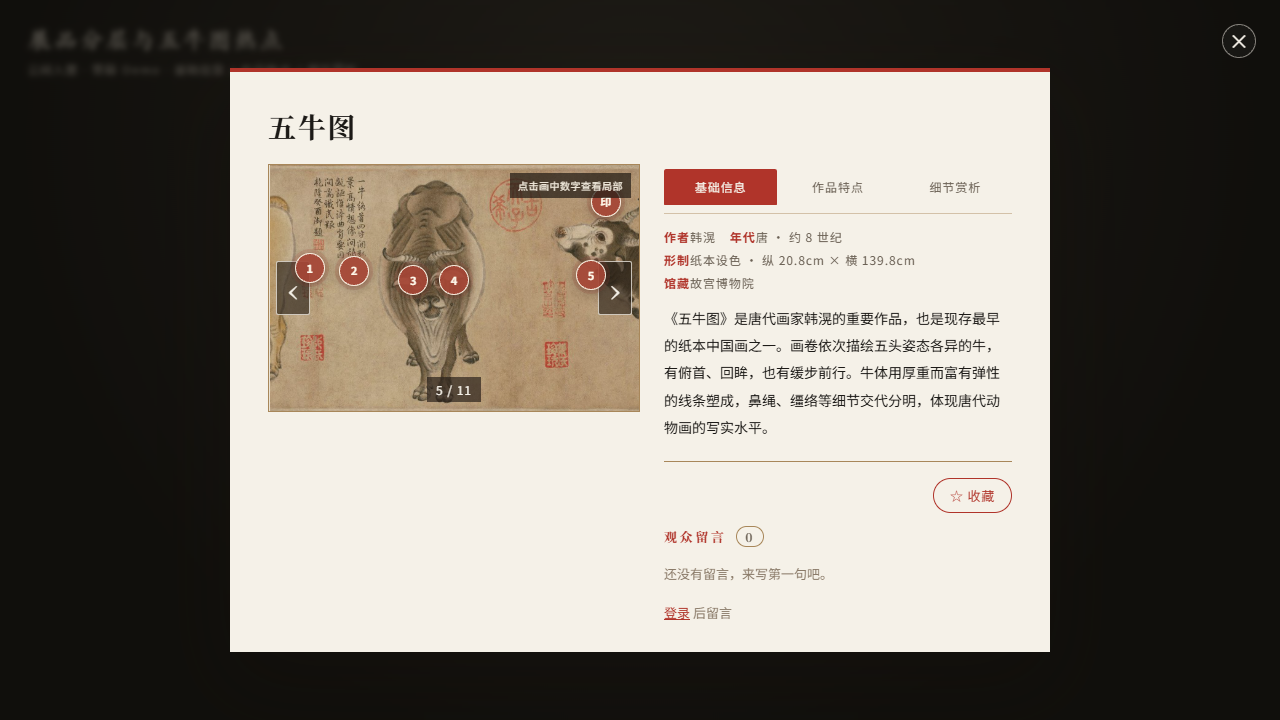
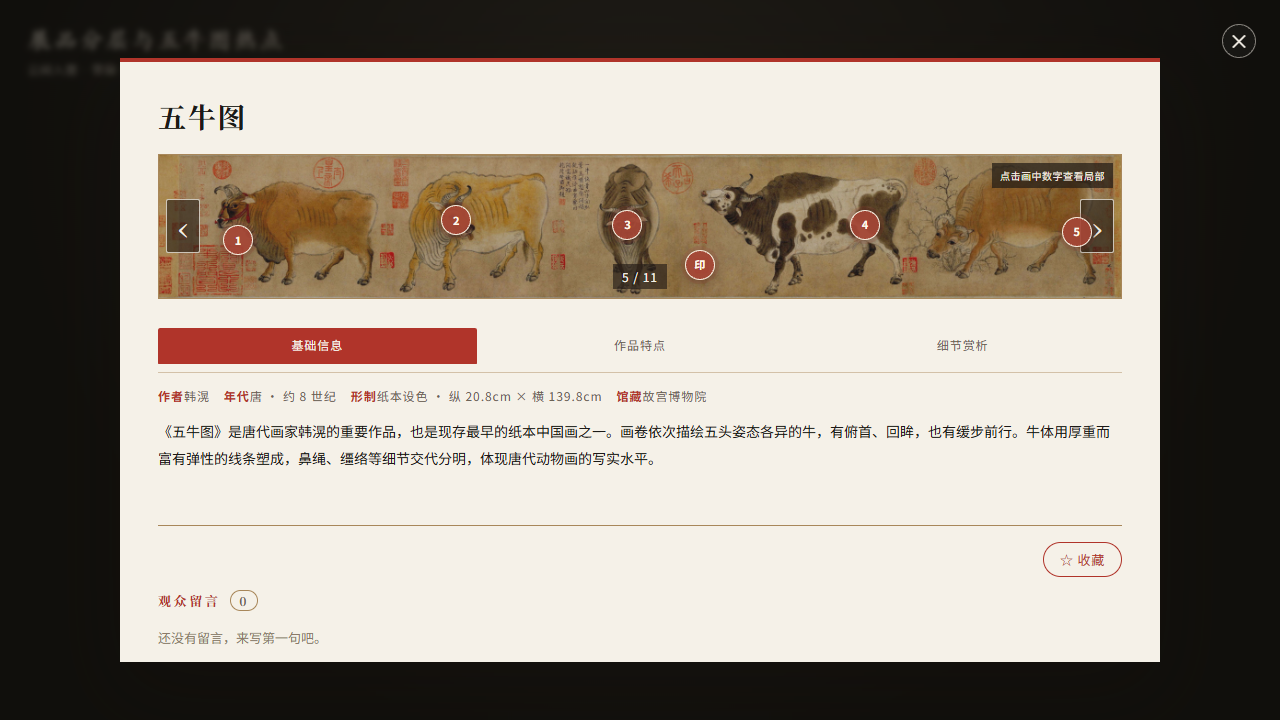
fix(exhibit): 替换完整五牛图并校正热点

diff --git a/js/config.js b/js/config.js
@@ -105,7 +105,7 @@ window.MuseumConfig = {
       ],
     },
     {
-      id: "wuniutu", type: "painting", image: "assets/images/wuniutu.jpg", hall: "hall3",
+      id: "wuniutu", type: "painting", image: "assets/images/wuniutu.jpg", hall: "hall3", layout: "scroll",
       title: "五牛图",
       artist: "韩滉", dynasty: "唐", era: "约 8 世纪",
       medium: "纸本设色 · 纵 20.8cm × 横 139.8cm",
@@ -118,12 +118,12 @@ window.MuseumConfig = {
         "鼻绳、缰络、牛角与口鼻细毛被准确刻画，在极简背景中突出唐代动物画的写实能力。",
       ],
       hotspots: [
-        { id: "ox-left-1", label: "左一 · 昂首凝视", x: 11, y: 42, text: "左起第一头牛正面昂首，牛角向前，牛眼凝视画外，头部套有缰绳；紧绷的身体与警惕神情让画面在起始处形成强烈停顿。" },
-        { id: "ox-left-2", label: "左二 · 缓步前行", x: 23, y: 43, text: "第二头牛侧身缓步，脊背与腹部以长线连成完整弧线，关节处用短促提按表现转折，体现韩滉以简练线条写筋骨的能力。" },
-        { id: "ox-middle", label: "中段 · 转身蓄势", x: 39, y: 47, text: "中段牛身体略微转向，视线与前行方向打破横向排列的单一节奏；牛背起伏与四肢支撑被处理得稳定而有重量。" },
-        { id: "ox-right-2", label: "右二 · 回首顾盼", x: 50, y: 47, text: "这一头牛回首顾盼，颈部转折与身体朝向形成回环，引导视线重新回到画卷中央，也为末段积蓄动势。" },
-        { id: "ox-right-1", label: "右一 · 倚棘蹭痒", x: 87, y: 45, text: "最右一头老牛伸长脖子倚着荆棘蹭痒，弯曲牛角和松弛眼神把舒适神态写得很传神，是五牛图中情绪最鲜活的一头。" },
-        { id: "seal-collection", kind: "seal", label: "收藏印 · 递藏信息", x: 91, y: 15, text: "卷后题跋与收藏印见证宋、元、清以来递藏；乾隆内府收藏、近代流散与二十世纪五十年代购回经历，使作品兼具艺术价值与文物史价值。" },
+        { id: "ox-1", label: "第一牛 · 昂首凝视", x: 8.2, y: 60, text: "卷首第一头牛正面昂首，牛角向前，牛眼凝视画外，头部套有缰绳；紧绷的身体与警惕神情让画面在起始处形成强烈停顿。" },
+        { id: "ox-2", label: "第二牛 · 缓步前行", x: 30.9, y: 46, text: "第二头牛侧身缓步，脊背与腹部以长线连成完整弧线，关节处用短促提按表现转折，体现韩滉以简练线条写筋骨的能力。" },
+        { id: "ox-3", label: "第三牛 · 正面蓄势", x: 48.7, y: 49, text: "中间一头牛身体略微转向，视线与前行方向打破横向排列的单一节奏；牛背起伏与四肢支撑被处理得稳定而有重量。" },
+        { id: "ox-4", label: "第四牛 · 回首顾盼", x: 73.4, y: 49, text: "第四头牛回首顾盼，颈部转折与身体朝向形成回环，引导视线重新回到画卷中央，也为末段积蓄动势。" },
+        { id: "ox-5", label: "第五牛 · 倚棘蹭痒", x: 95.4, y: 54, text: "卷末老牛伸长脖子倚着荆棘蹭痒，弯曲牛角和松弛眼神把舒适神态写得很传神，是五牛图中情绪最鲜活的一头。" },
+        { id: "seal-collection", kind: "seal", label: "收藏印 · 递藏信息", x: 56.2, y: 77, text: "卷中朱红收藏印见证宋、元、清以来递藏；乾隆内府收藏、近代流散与二十世纪五十年代购回经历，使作品兼具艺术价值与文物史价值。" },
       ],
     },
     {

diff --git a/index.html b/index.html
@@ -141,8 +141,8 @@
 
   <!-- 第三方依赖：Three.js r147（UMD，SRI 锁定） -->
   <!-- three.js 本地化：原 jsdelivr CDN 在国内常不可达，断网/答辩会白屏 -->
-  <script src="./js/vendor/three.min.js?v=20261105-runtime2"></script>
-  <script src="./js/vendor/GLTFLoader.js?v=20261105-runtime2"></script>
+  <script src="./js/vendor/three.min.js?v=20261106-wuniutu"></script>
+  <script src="./js/vendor/GLTFLoader.js?v=20261106-wuniutu"></script>
   <!-- 第三方依赖：MediaPipe Tasks Vision 0.10.0（已本地化：js/vendor/mediapipe/，
        WASM 与 hand_landmarker.task 由 gesture.js 从本地路径加载，断网可用） -->
   <!-- 注意：vision_bundle.js 是「UMD 外层 + 末尾 ESM export」的混合产物，
@@ -168,25 +168,25 @@
   </script>
 
   <!-- 项目模块（依赖顺序不可调换） -->
-  <script src="./js/config.js?v=20261105-runtime2"></script>
-  <script src="./js/models.js?v=20261105-runtime2"></script>
-  <script src="./js/exterior.js?v=20261105-runtime2"></script>
-  <script src="./js/gallery.js?v=20261105-runtime2"></script>
-  <script src="./js/windows.js?v=20261105-runtime2"></script>
-  <script src="./js/exterior-layout.js?v=20261105-runtime2"></script>
-  <script src="./js/slots.js?v=20261105-runtime2"></script>
-  <script src="./js/foliage.js?v=20261105-runtime2"></script>
-  <script src="./js/lighting.js?v=20261105-runtime2"></script>
-  <script src="./js/intro.js?v=20261105-runtime2"></script>
-  <script src="./js/scene.js?v=20261105-runtime2"></script>
-  <script src="./js/static-batcher.js?v=20261105-runtime2"></script>
-  <script src="./js/player.js?v=20261105-runtime2"></script>
-  <script src="./js/avatar.js?v=20261105-runtime2"></script>
-  <script src="./js/gesture.js?v=20261105-runtime2"></script>
-  <script src="./js/exhibit.js?v=20261105-runtime2"></script>
-  <script src="./js/ui.js?v=20261105-runtime2"></script>
-  <script src="./js/ink-worlds.js?v=20261105-runtime2"></script>
-  <script src="./js/main.js?v=20261105-runtime2"></script>
+  <script src="./js/config.js?v=20261106-wuniutu"></script>
+  <script src="./js/models.js?v=20261106-wuniutu"></script>
+  <script src="./js/exterior.js?v=20261106-wuniutu"></script>
+  <script src="./js/gallery.js?v=20261106-wuniutu"></script>
+  <script src="./js/windows.js?v=20261106-wuniutu"></script>
+  <script src="./js/exterior-layout.js?v=20261106-wuniutu"></script>
+  <script src="./js/slots.js?v=20261106-wuniutu"></script>
+  <script src="./js/foliage.js?v=20261106-wuniutu"></script>
+  <script src="./js/lighting.js?v=20261106-wuniutu"></script>
+  <script src="./js/intro.js?v=20261106-wuniutu"></script>
+  <script src="./js/scene.js?v=20261106-wuniutu"></script>
+  <script src="./js/static-batcher.js?v=20261106-wuniutu"></script>
+  <script src="./js/player.js?v=20261106-wuniutu"></script>
+  <script src="./js/avatar.js?v=20261106-wuniutu"></script>
+  <script src="./js/gesture.js?v=20261106-wuniutu"></script>
+  <script src="./js/exhibit.js?v=20261106-wuniutu"></script>
+  <script src="./js/ui.js?v=20261106-wuniutu"></script>
+  <script src="./js/ink-worlds.js?v=20261106-wuniutu"></script>
+  <script src="./js/main.js?v=20261106-wuniutu"></script>
   <!-- Vue 入口（Vite 模块，最后加载，不干扰上方引擎脚本） -->
   <script type="module" src="/src/main.js"></script>
 </body>

diff --git a/js/ui.js b/js/ui.js
@@ -175,10 +175,12 @@ window.MuseumUI = (function () {
         'style="left:' + x + '%;top:' + y + '%" aria-label="查看' + esc(spot.label || ("局部 " + (i + 1))) + '" aria-pressed="false">' +
         marker + '</button>';
     }
-    return '<div class="p-art-frame">' +
-      '<img class="p-art-img" src="' + esc(ex.image) + '" alt="' + esc(ex.title) + ' 画作" />' +
-      '<div class="p-hotspots" role="group" aria-label="画作局部热点">' + markers + '</div>' +
-      '<div class="p-hotspot-tip">点击画中数字查看局部</div>' +
+    return '<div class="p-art-frame' + (ex.layout === "scroll" ? ' is-scroll' : '') + '">' +
+      '<div class="p-art-media">' +
+        '<img class="p-art-img" src="' + esc(ex.image) + '" alt="' + esc(ex.title) + ' 画作" />' +
+        '<div class="p-hotspots" role="group" aria-label="画作局部热点">' + markers + '</div>' +
+        '<div class="p-hotspot-tip">点击画中数字查看局部</div>' +
+      '</div>' +
       '<div class="p-hotspot-detail" id="p-hotspot-detail" aria-live="polite" hidden>' +
         '<button type="button" class="p-hotspot-close" id="p-hotspot-close" aria-label="关闭局部说明">×</button>' +
         '<strong id="p-hotspot-title"></strong>' +
@@ -303,9 +305,9 @@ window.MuseumUI = (function () {
     social.comments = [];
 
     var artVisual = renderArtVisual(ex);
-    var artCol = '<div class="p-art' + (hasHotspots(ex) ? ' has-hotspots' : '') + '">' + artVisual + paintingNav(ex) + '</div>';
+    var artCol = '<div class="p-art' + (hasHotspots(ex) ? ' has-hotspots' : '') + (ex.layout === "scroll" ? ' is-scroll' : '') + '">' + artVisual + paintingNav(ex) + '</div>';
     el.panelBody.innerHTML =
-      '<div class="panel-card">' +
+      '<div class="panel-card' + (ex.layout === "scroll" ? ' has-scroll-art' : '') + '">' +
         '<h2>' + esc(ex.title) + '</h2>' +
         '<div class="p-body">' +
           artCol +

diff --git a/css/style.css b/css/style.css
@@ -328,7 +328,7 @@ button { font-family: inherit; cursor: pointer; }
 .hall-prompt-card .p-hall-cancel:hover { color: var(--ink); background: rgba(74, 69, 64, 0.08); }
 
 /* ===== 弹窗内 · 左画右介绍 两栏（组员5） ===== */
-.panel-card .p-body { display: flex; gap: 24px; align-items: stretch; margin-top: 18px; }
+.panel-card .p-body { display: flex; flex-wrap: wrap; gap: 24px; align-items: stretch; margin-top: 18px; }
 .panel-card .p-art { flex: 0 0 46%; }
 .panel-card .p-art { position: relative; }
 .panel-card .p-art-img {
@@ -455,7 +455,20 @@ button { font-family: inherit; cursor: pointer; }
   font-size: 12px;
   line-height: 1.65;
 }
+.panel-card.has-scroll-art { width: min(1040px, 96vw); }
 .panel-card .p-art.has-hotspots { flex: 0 0 50%; align-self: flex-start; }
+.panel-card .p-art.has-hotspots.is-scroll { flex: 1 0 100%; width: 100%; align-self: stretch; }
+.panel-card .p-art.is-scroll + .p-info { flex: 1 0 100%; }
+.panel-card .p-art-media { position: relative; width: 100%; height: 100%; overflow: hidden; }
+.panel-card .p-art-frame.is-scroll { aspect-ratio: auto; }
+.panel-card .p-art-frame.is-scroll .p-art-media { height: auto; overflow: visible; }
+.panel-card .p-art-frame.is-scroll .p-art-img { width: 100%; height: auto; min-height: 0; object-fit: contain; }
+.panel-card .p-art-frame.is-scroll .p-hotspot-detail {
+  position: relative;
+  left: auto; right: auto; bottom: auto;
+  margin: 9px 0 0;
+  max-height: none;
+}
 .panel-card .p-art-frame {
   position: relative;
   width: 100%;

diff --git a/public/exhibit-demo.html b/public/exhibit-demo.html
@@ -26,8 +26,8 @@
     <div id="panel-body" class="panel-body"></div>
   </div>
   <div id="toast" class="toast"></div>
-  <script src="./js/config.js?v=20261105-runtime2"></script>
-  <script src="./js/ui.js?v=20261105-runtime2"></script>
+  <script src="./js/config.js?v=20261106-wuniutu"></script>
+  <script src="./js/ui.js?v=20261106-wuniutu"></script>
   <script>
     window.MuseumUI.init();
     window.MuseumUI.hideLoading();

diff --git a/docs/current/assets/素材来源.md b/docs/current/assets/素材来源.md
@@ -6,9 +6,11 @@
 
 ### 1.1 名画贴图（`assets/images/`，9 幅）
 
-均为 **1200×800（3:2）**，与场景挂画比例（`addPainting` 的 w/h ≈ 1.43~1.55）对齐。全部取自[故宫名画记](https://minghuaji.dpm.org.cn)公开超高清影像，原作均为公共领域（PD-old，作者逝世超 100 年）。
+除《五牛图》外均为 **1200×800（3:2）**，与场景挂画比例（`addPainting` 的 w/h ≈ 1.43~1.55）对齐。其余画作取自[故宫名画记](https://minghuaji.dpm.org.cn)公开超高清影像，原作均为公共领域（PD-old，作者逝世超 100 年）。
 
 `qianlijiangshan`(千里江山图) / `fuchunshanjv`(仿黄公望富春山居图) / `xishanxinglvtu`(溪山行旅图) / `xieshengzhenqintu`(写生珍禽图) / `wuniutu`(五牛图) / `molantu`(墨兰图) / `hanxizai`(韩熙载夜宴图) / `luoshenfu`(洛神赋图) / `buniantu`(步辇图)
+
+> **《五牛图》例外**：正式版改用 **4180×621 完整长卷**，显示全部五头牛并保留卷中收藏印。来源：[Wikimedia Commons · Хань Хуан. Пять быков. Гугун, Пекин.1](https://commons.wikimedia.org/wiki/File:Хань_Хуан._Пять_быков._Гугун,_Пекин.1.jpg)，授权为 **Public domain**。
 
 > **注**：《富春山居图》真迹分藏浙博与台北故宫，《溪山行旅图》藏台北故宫，**北京故宫均无原作**；此处采用故宫名画记收录的相关内容（沈周仿本）并据实标注。
 

diff --git a/docs/current/exhibition/展品三级信息与五牛图热点说明.md b/docs/current/exhibition/展品三级信息与五牛图热点说明.md
@@ -42,14 +42,16 @@
 
 ## 《五牛图》六个热点
 
-| 热点 | 坐标 | 内容重点 |
+| 热点 | 完整长卷坐标 | 内容重点 |
 |---|---|---|
-| 左一 · 昂首凝视 | `(11, 42)` | 正面姿态、缰绳、警惕神情 |
-| 左二 · 缓步前行 | `(23, 43)` | 长线连接脊背与腹部、关节提按 |
-| 中段 · 转身蓄势 | `(39, 47)` | 身体转向、重量与节奏变化 |
-| 右二 · 回首顾盼 | `(50, 47)` | 颈部转折、视线回环 |
-| 右一 · 倚棘蹭痒 | `(87, 45)` | 老牛蹭痒、弯角与松弛神态 |
-| 收藏印 · 递藏信息 | `(91, 15)` | 题跋、收藏印与近代递藏经历 |
+| 第一牛 · 昂首凝视 | `(8.2, 60)` | 正面姿态、缰绳、警惕神情 |
+| 第二牛 · 缓步前行 | `(30.9, 46)` | 长线连接脊背与腹部、关节提按 |
+| 第三牛 · 正面蓄势 | `(48.7, 49)` | 身体转向、重量与节奏变化 |
+| 第四牛 · 回首顾盼 | `(73.4, 49)` | 颈部转折、视线回环 |
+| 第五牛 · 倚棘蹭痒 | `(95.4, 54)` | 老牛蹭痒、弯角与松弛神态 |
+| 收藏印 · 递藏信息 | `(56.2, 77)` | 卷中朱红收藏印与递藏经历 |
+
+> `assets/images/wuniutu.jpg` 已替换为 4180×621 的完整公共领域长卷；原 1200×800 图片实际只是长卷约 39%–61% 的中央裁切。
 
 ## 答辩 Demo
 
